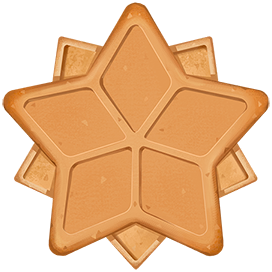
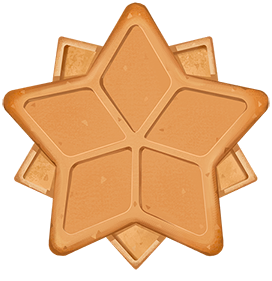
Fix board misalignment when no tart, and unbreak sandbox arrows
- none.png was 272x272 while every tart board is 272x281. In the
  1:1 CSS container object-fit:contain rendered the plain board
  shifted down, throwing off the topping alignment users saw only
  when they took the tart off. Pad none.png to 272x281 so it
  renders like the tarts do.
- Move per-slot dx/dy defaults from theme.css into slotPosition
  as var() fallbacks. Sitting on .topping-board itself, the CSS
  vars beat any inherited value, so the tuner's inline overrides
  on the wrapper had no visual effect.

diff --git a/frontend/src/components/ToppingCircle.tsx b/frontend/src/components/ToppingCircle.tsx
@@ -33,15 +33,26 @@ interface ToppingCircleProps {
 // The actual distance from the centre lives in CSS as --wedge-radius
 // on .topping-board, so it can be tuned alongside the other sizing
 // knobs in theme.css without touching this file.
+// Per-slot fine-tune. The star artwork isn't perfectly 5-fold
+// symmetric, so each wedge gets a tiny nudge from the shared radius.
+// Percentages of the board width, so they scale on mobile. Kept
+// here (not in theme.css) so a wrapper element's inline
+// --slot-N-dx can override — theme.css sitting on .topping-board
+// itself would beat any inherited value.
+const SLOT_NUDGE: Array<{dx: string; dy: string}> = [
+    { dx: '-0.31%', dy: '-1.56%' },
+    { dx:  '0.94%', dy: '-0.94%' },
+    { dx:  '0.31%', dy:  '0.31%' },
+    { dx: '-1.56%', dy:  '0%'    },
+    { dx: '-1.56%', dy: '-0.63%' },
+];
+
 function slotPosition(i: number) {
     const angle = (-90 + i * 72) * (Math.PI / 180);   // degrees -> radians
-    // Per-slot nudge variables (--slot-N-dx, --slot-N-dy) default to
-    // no-op, so setting them lets the demo page (or a future per-slot
-    // tune-up in theme.css) shift any one wedge without touching the
-    // others.
+    const n = SLOT_NUDGE[i];
     return {
-        left: `calc(50% + var(--wedge-radius) * ${Math.cos(angle).toFixed(4)} + var(--slot-${i}-dx, 0px))`,
-        top:  `calc(50% + var(--wedge-radius) * ${Math.sin(angle).toFixed(4)} + var(--slot-${i}-dy, 0px))`,
+        left: `calc(50% + var(--wedge-radius) * ${Math.cos(angle).toFixed(4)} + var(--slot-${i}-dx, ${n.dx}))`,
+        top:  `calc(50% + var(--wedge-radius) * ${Math.sin(angle).toFixed(4)} + var(--slot-${i}-dy, ${n.dy}))`,
         // Each wedge points a different way, and in game the topping
         // is TILTED to sit square in its wedge rather than all five
         // pointing straight up. Slot 0 is the top wedge (no tilt) and

diff --git a/frontend/src/theme.css b/frontend/src/theme.css
@@ -1861,16 +1861,9 @@ input[type="number"] {
     --topping-width: 27%;
     --empty-width: 13%;
 
-    /* Per-slot fine-tune. The star artwork isn't perfectly 5-fold
-       symmetric, so each wedge gets a tiny nudge from the shared
-       radius. Percentages of the board width, so the offsets keep
-       their proportion on mobile. Tuned in ToppingDemoPage against
-       the 320px production board; conversion: N/320 * 100. */
-    --slot-0-dx: -0.31%;  --slot-0-dy: -1.56%;
-    --slot-1-dx:  0.94%;  --slot-1-dy: -0.94%;
-    --slot-2-dx:  0.31%;  --slot-2-dy:  0.31%;
-    --slot-3-dx: -1.56%;  --slot-3-dy:  0%;
-    --slot-4-dx: -1.56%;  --slot-4-dy: -0.63%;
+    /* per-slot dx/dy defaults live in ToppingCircle.tsx (SLOT_NUDGE)
+       so a wrapper's inline --slot-N-dx can override — a rule here
+       would beat any inherited value */
 
     width: var(--board-size);
     aspect-ratio: 1;
